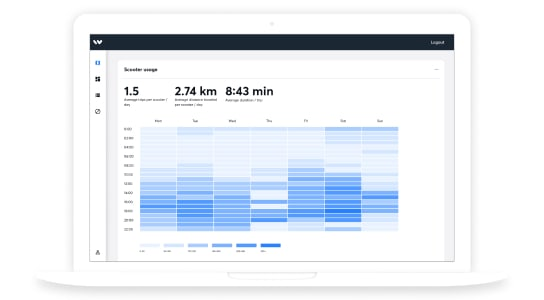
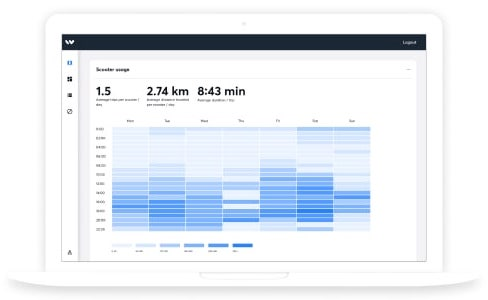
resize mockups city

diff --git a/_includes/static/block-city-main.html b/_includes/static/block-city-main.html
@@ -43,7 +43,7 @@
           </div>
         </div>
         <div class="col-md-6 col-lg-7">
-          <div class="out-right mt-5 mt-md-0">
+          <div class="out-right mt-4 mt-md-0">
             <img data-src="uploads/global/city/mockup-city_trips.png" data-srcset="uploads/global/city/mockup-city_trips@2x.png 2x" alt="A white laptop displays a map of a city with an overlay of different colored zones under the title scooter trip count." />
           </div>
         </div>

diff --git a/_sass/hp/_products.scss b/_sass/hp/_products.scss
@@ -311,6 +311,16 @@
   margin-bottom: 12px;
 }
 
+.city {
+  .out-right img {
+    @include rwd(tablet-down) {
+      max-width: 105%;
+      margin-left: -2.5%;
+    }
+  }
+}
+
+
 // Vehicles product page styling
 
 .contact-form__wrapper {
